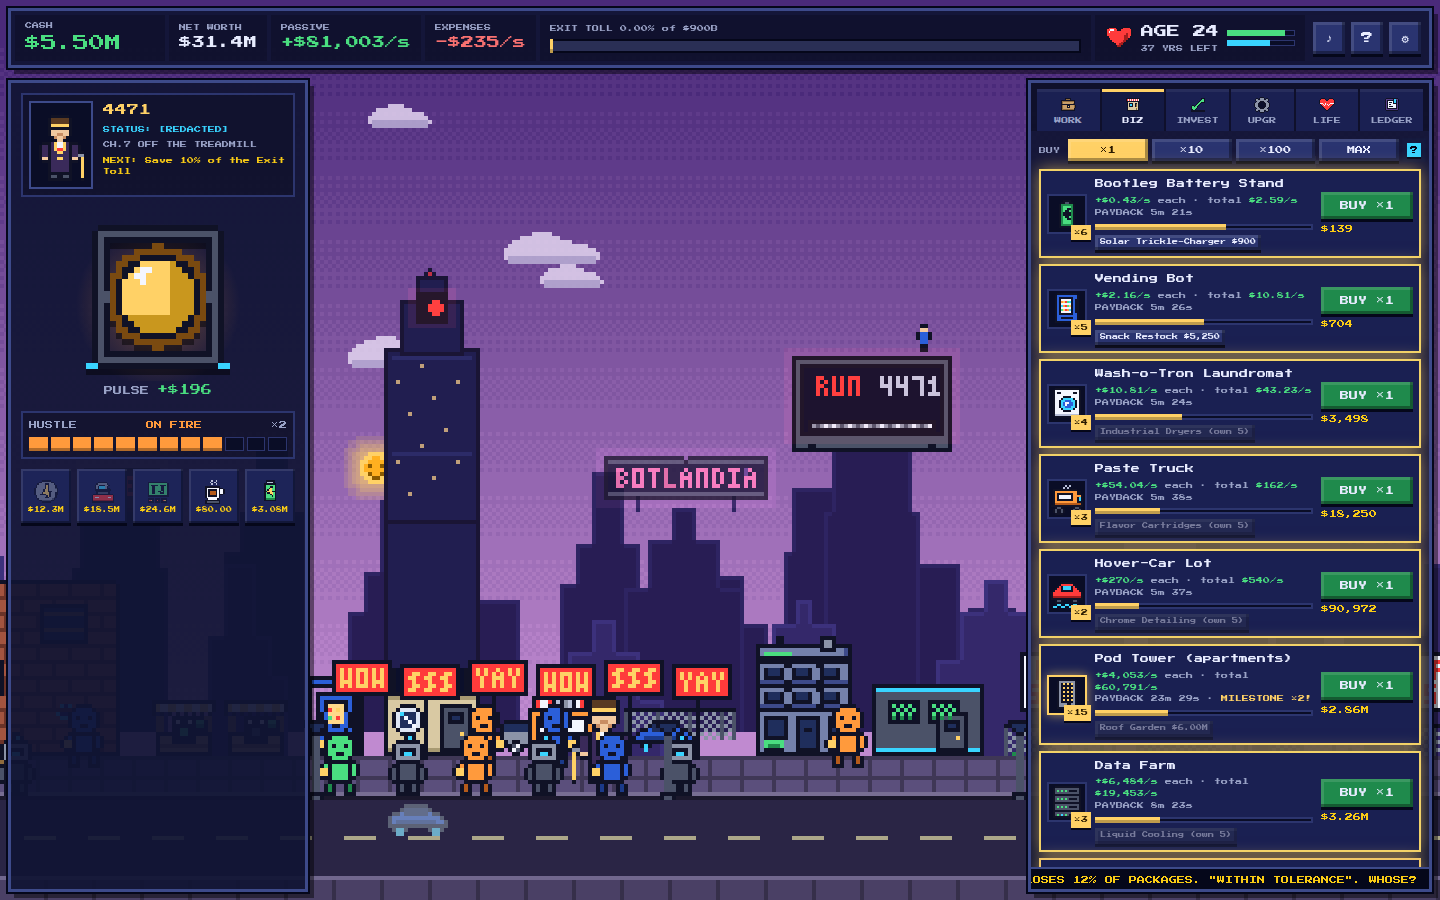
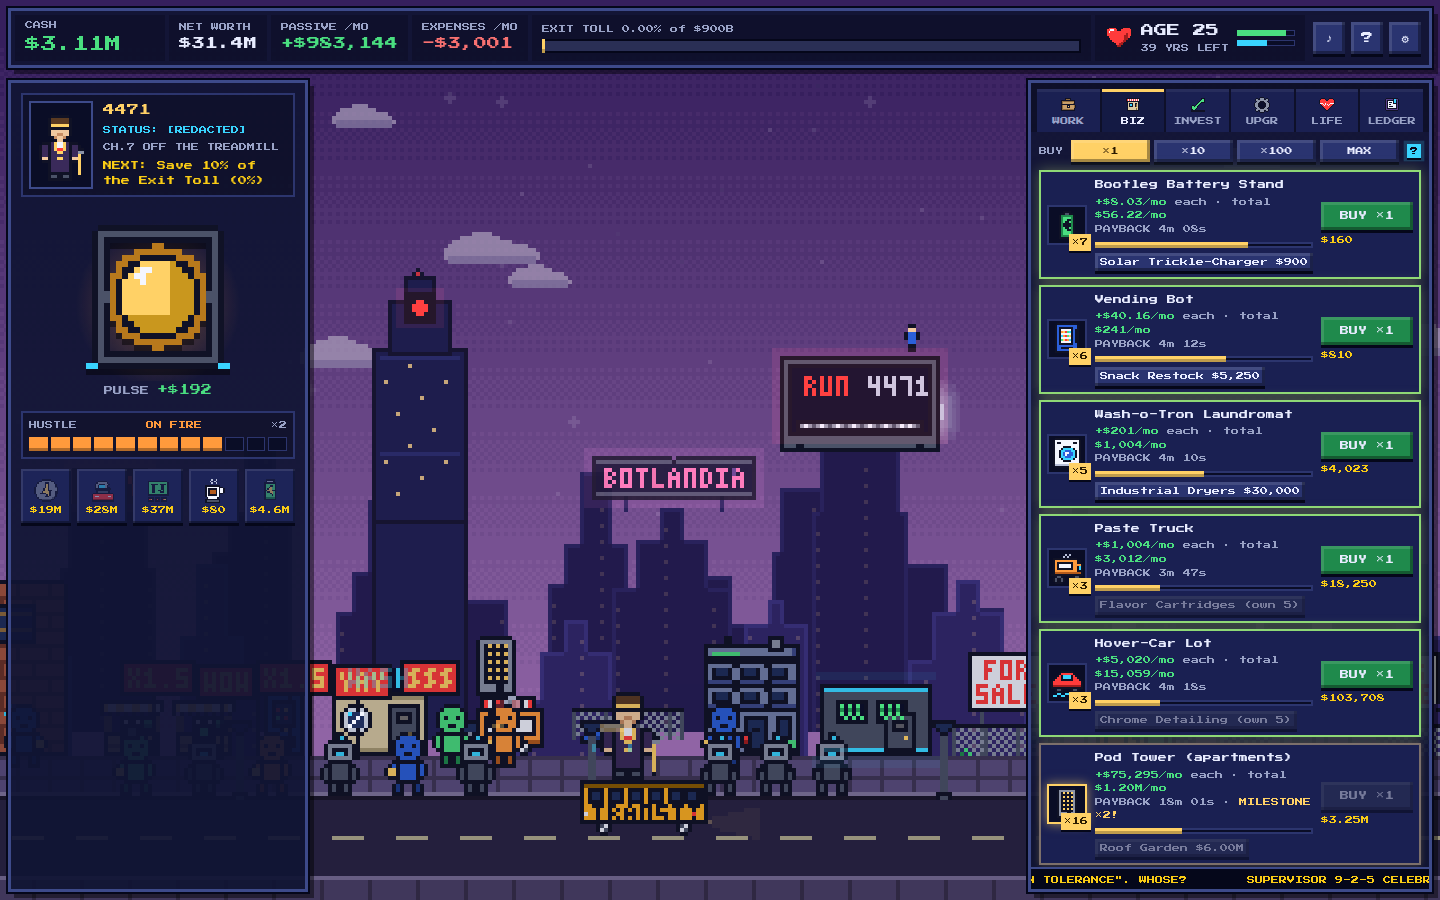
Polish: phone top bar labels, steady BOOST label, name in chapter line, fresh screenshot
Claude-Session: https://claude.ai/code/session_018pzoSMmKj2VdY9rFR27gGf

diff --git a/ui.js b/ui.js
@@ -1333,7 +1333,7 @@
     let mode, x, y;
     if (!phone && r.left >= you.left - 2 && r.right <= you.right + 2) { mode = 'right'; x = you.right + 12; y = r.top + r.height / 2; }
     else if (!phone && r.left >= mk.left - 2) { mode = 'left'; x = mk.left - 12; y = r.top + r.height / 2; }
-    else if (r.top < 150) { mode = 'below'; x = r.left + r.width / 2; y = r.bottom + 6; }
+    else if (r.top < 150 || (phone && r.bottom + 60 < innerHeight)) { mode = 'below'; x = r.left + r.width / 2; y = r.bottom + 6; }
     else { mode = 'above'; x = r.left + r.width / 2; y = r.top - 4; }
     box.className = 'm-' + mode;
     $('tut-arrow').textContent = { right: '◀', left: '▶', below: '▲', above: '▼' }[mode];
@@ -1429,7 +1429,7 @@
       const ch = Data.CHAPTERS[S.chapter - 1];
       $('id-name').textContent = S.name;
       const st = $('id-status'); st.textContent = 'STATUS: ' + ch.statusLabel; st.classList.toggle('redacted', S.chapter >= 7);
-      $('id-chapter').textContent = 'CH.' + S.chapter + ' ' + ch.title;
+      $('id-chapter').textContent = 'CH.' + S.chapter + ' ' + humanize('you', ch.title);
       $('id-goal').textContent = goalText(ch);
       if (ui.tipKey && !$('tooltip').hidden) {
         const t = $('tooltip'); const html = tipFor(ui.tipKey); if (html) t.innerHTML = html;

diff --git a/style.css b/style.css
@@ -118,7 +118,7 @@ h3.section:first-child { margin-top: 2px; }
 .stat-label { font-size: 8px; color: var(--muted); white-space: nowrap; }
 .stat-value { font-size: 13px; white-space: nowrap; transition: color .2s; }
 .stat-value.flash { color: #fff !important; text-shadow: 0 0 8px #fff; }
-.stat-value.boost { color: var(--gold) !important; animation: blink .6s steps(2) infinite; }
+.stat-value.boost { color: var(--gold) !important; text-shadow: 0 0 6px rgba(255, 209, 102, .6); }
 .stat-cash .stat-value { color: var(--green); font-size: 16px; }
 .stat-cash { min-width: 150px; }
 .stat-freedom { flex: 1; min-width: 170px; }
@@ -459,6 +459,7 @@ body.reduce-motion *, body.reduce-motion *::before, body.reduce-motion *::after 
   /* phone: a compact sticky bar — cash, passive, expenses, life on one row, freedom + buttons on the next */
   #topbar { position: sticky; top: 0; left: 0; right: 0; margin: 0; height: auto; display: grid; grid-template-columns: 1.2fr 1fr 1fr 1.3fr; gap: 3px; border-width: 2px; padding: 3px; }
   #topbar .stat:nth-child(2) { display: none; }
+  .stat-label .unit { display: none; }
   .stat { padding: 2px 4px; }
   .stat-label { font-size: 8px; }
   .stat-value { font-size: 8px; }

diff --git a/index.html b/index.html
@@ -27,11 +27,11 @@
         <span class="stat-value" id="tb-nw">-$2,000</span>
       </div>
       <div class="stat" data-tip="passive">
-        <span class="stat-label">PASSIVE /MO</span>
+        <span class="stat-label">PASSIVE<span class="unit"> /MO</span></span>
         <span class="stat-value good" id="tb-passive">+$0</span>
       </div>
       <div class="stat" data-tip="expenses">
-        <span class="stat-label">EXPENSES /MO</span>
+        <span class="stat-label">EXPENSES<span class="unit"> /MO</span></span>
         <span class="stat-value bad" id="tb-exp">$0</span>
       </div>
       <div class="stat stat-freedom" id="tb-freedom-wrap" data-tip="freedom">
